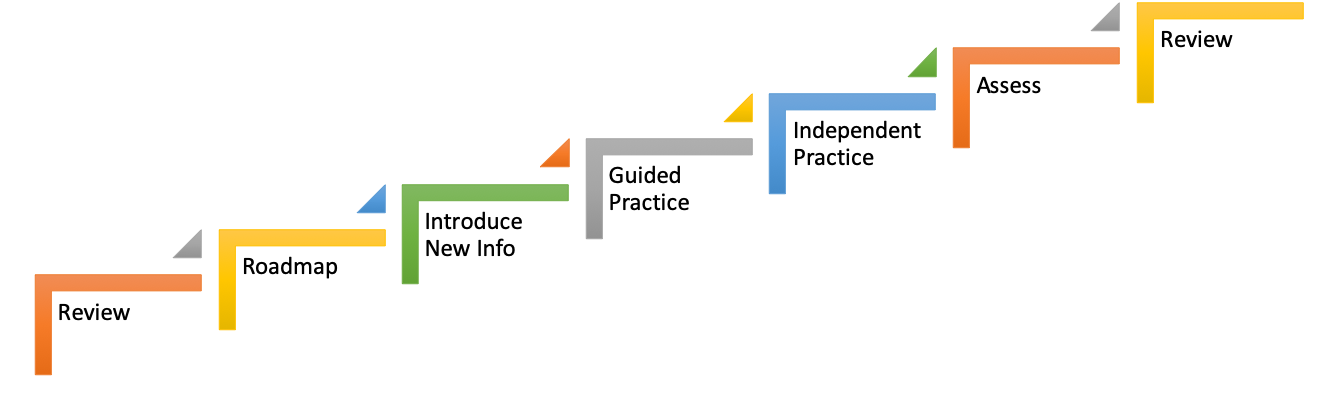
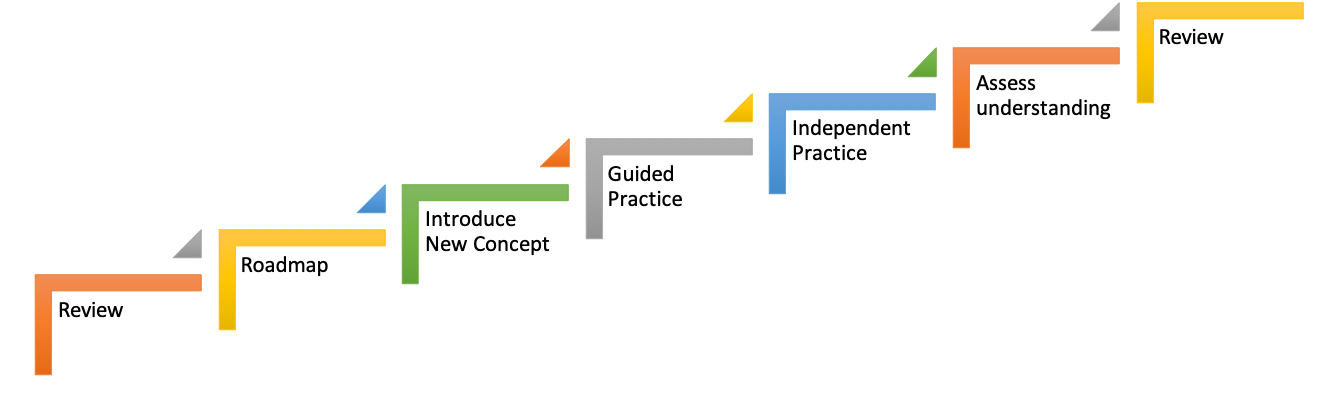
...

diff --git a/_posts/2019-07-23-Mentoring-graduate-software-developers.md b/_posts/2019-07-23-Mentoring-graduate-software-developers.md
@@ -126,11 +126,25 @@ Thinking in terms of Bloom's different levels allows you to have a structured ap
 
 ### Use Direct Instruction in Mentoring
 
-The last technique around teaching I want to mention is that of Direct instruction. Direct instruction is structured, sequenced, and led by the mentor. 
+The last technique around teaching I want to mention is that of Direct instruction. Direct instruction is a structured sequenced approach. Teachers often use it to help someone learn a concept. Mentors can use it to help somone develop a skill.
 
 <img class="img-responsive" alt="Direct Instruction" src="{{ site.url }}/assets/images/mentoring-software-developers-direct-instruction.png">
 
+Let me use an example of how you would use this learing a skill like Test Driven Development.
 
+Step 1 - **Review** - First, start by reviewing what information your grad has so far. 
+
+Step 2 - **Roadmap** - You then take them through the roadmap of things to learn and what they have covered so far. 
+
+Step 3 - **Introduce new concept** - 
+
+Step 4 - **Guided practice** - 
+
+Step 5 - **Independent practice** - 
+
+Step 6 - **Assess understanding** - 
+
+Step 7 - **Review** - 
 
 ## Coding katas are useful but can get boring
 
